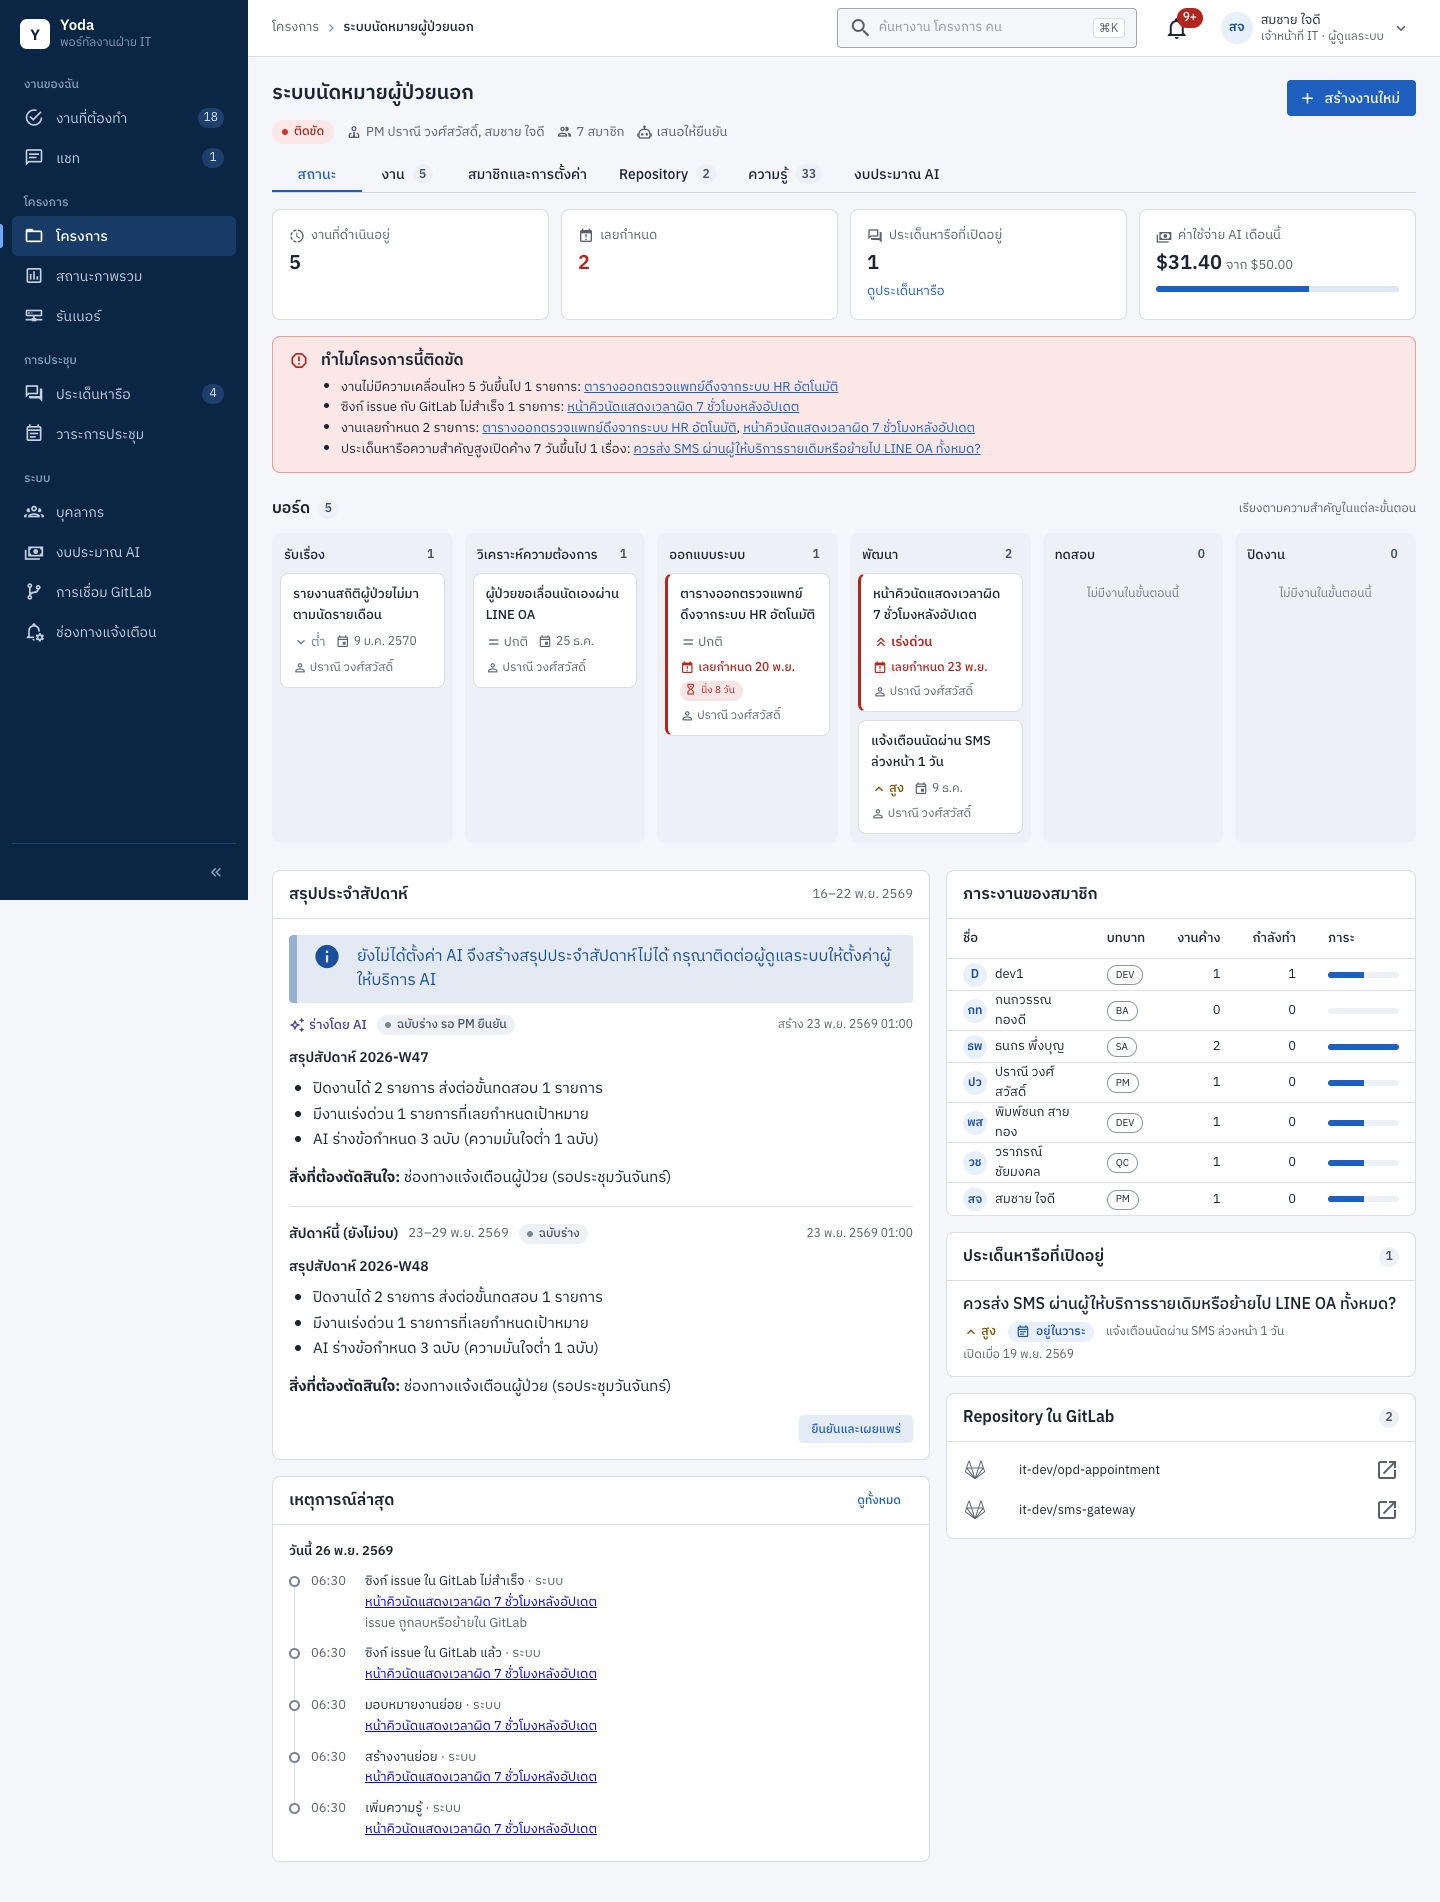
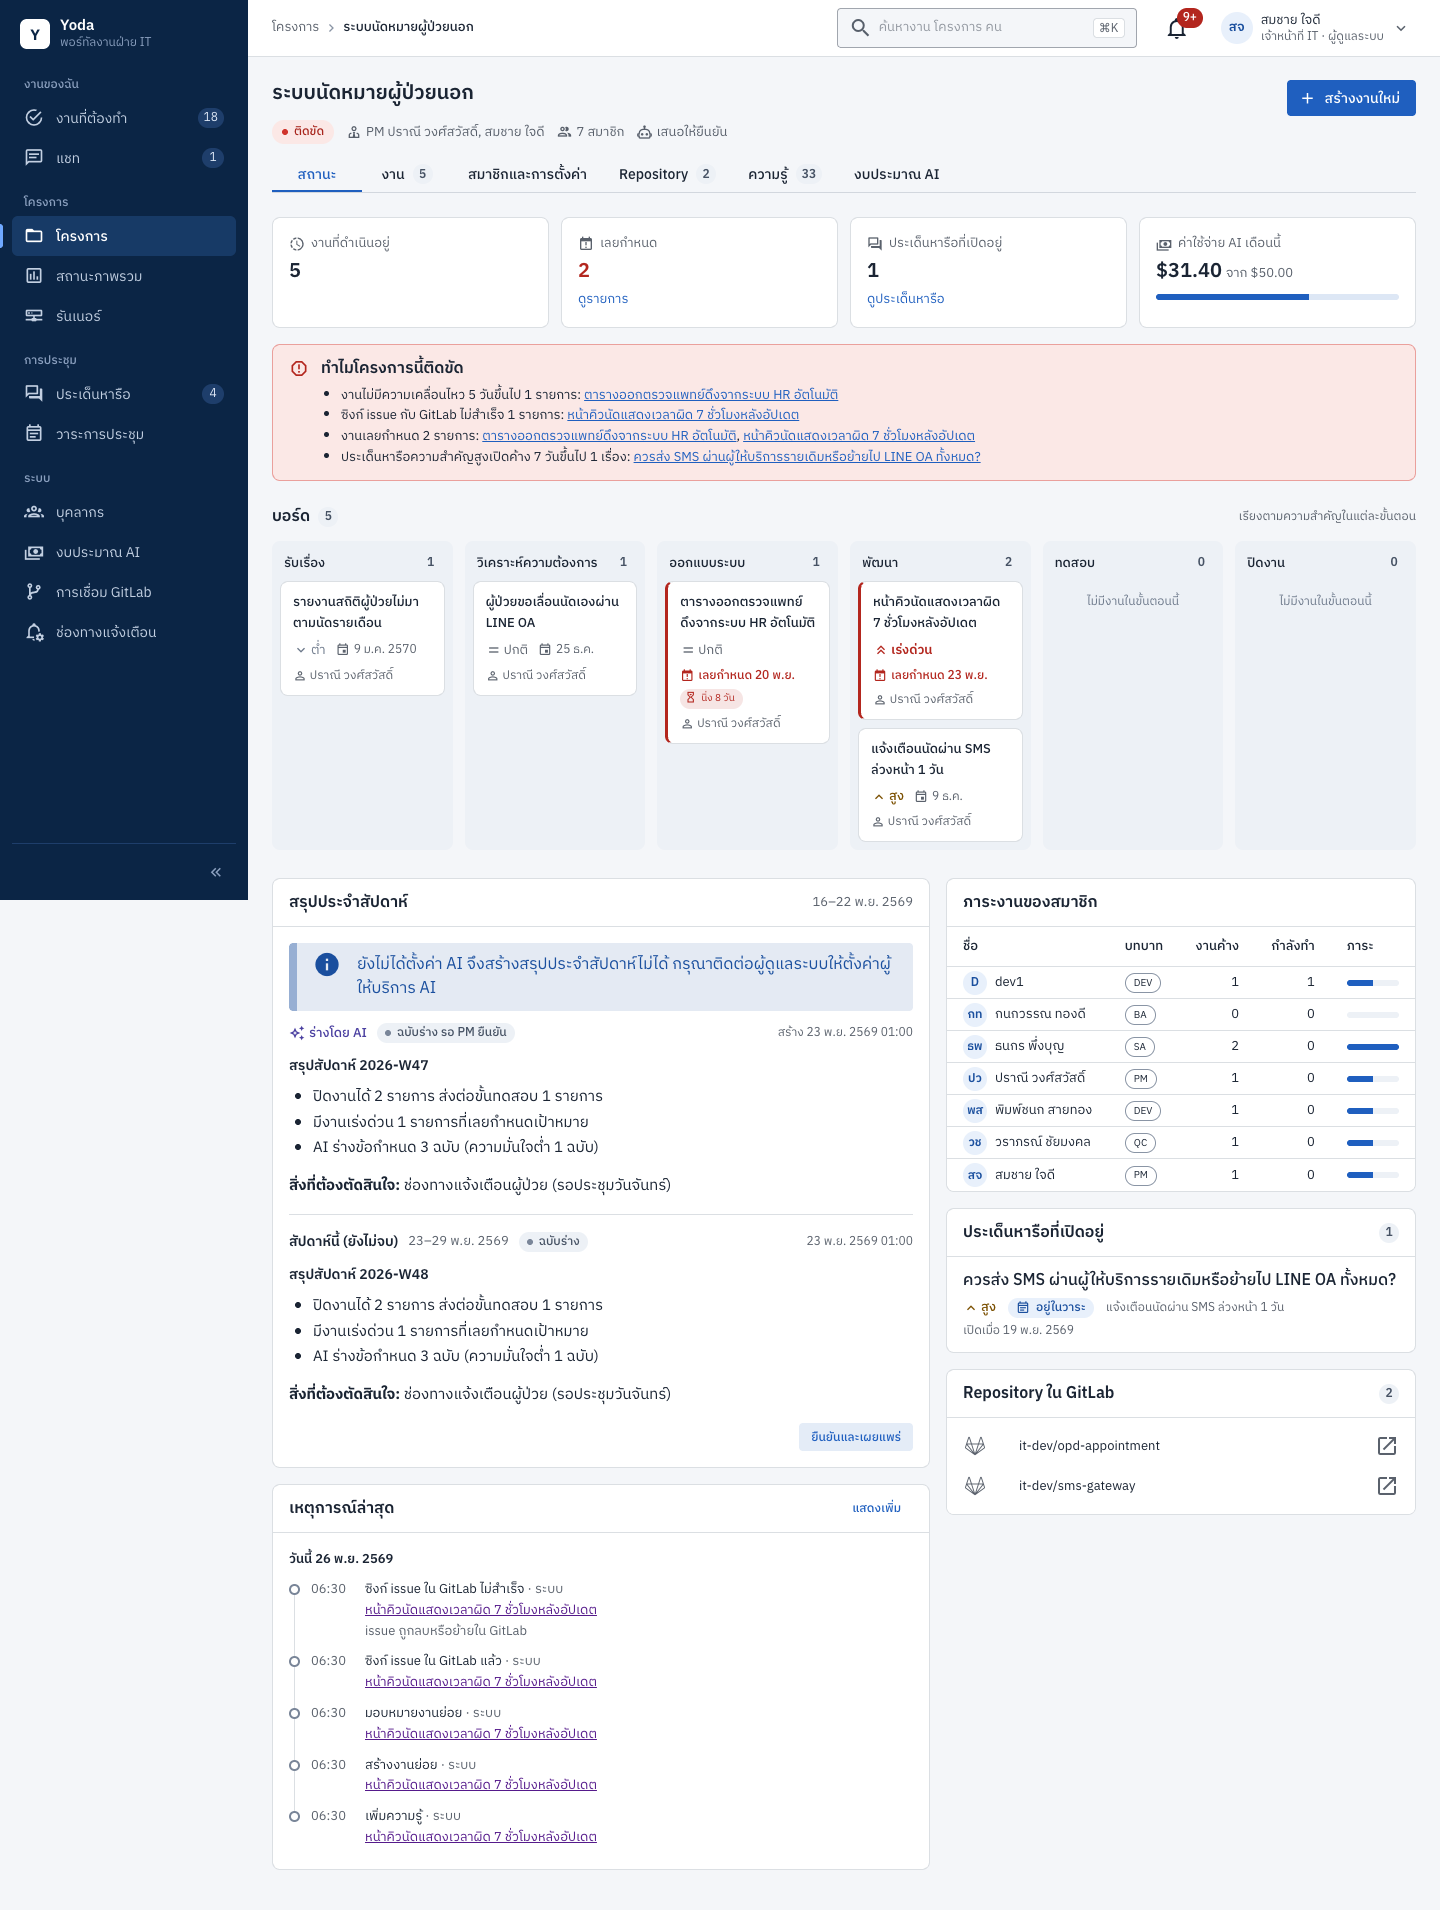
fix: knowledge count only when paged, recent events wording
GET /knowledge runs the count query only when limit or offset is given;
the project status tab's recent events button reads "แสดงเพิ่ม" (it
expands to the events the status route returns). Retook the project
status screenshot.

diff --git a/apps/core/test/knowledge.test.ts b/apps/core/test/knowledge.test.ts
@@ -307,7 +307,7 @@ describe('knowledge API', () => {
     expect(deptEvents.filter((e) => e.type.startsWith('knowledge.')).map((e) => e.projectId)).toEqual([p])
   })
 
-  it('pages the list with limit and offset and reports the total in x-total-count', async () => {
+  it('pages the list with limit and offset and reports the total of a page in x-total-count', async () => {
     await setup()
     const p = await newProject()
     const ids: string[] = []
@@ -326,10 +326,11 @@ describe('knowledge API', () => {
     expect(past.json()).toEqual([])
     expect(past.headers['x-total-count']).toBe('5')
 
-    // Without paging: everything (up to the default cap), total over all types.
+    // Without paging: everything (up to the default cap) and no count.
     const all = await call(dev, 'GET', `/knowledge?projectId=${p}`)
     expect((all.json() as KnowledgeEntry[]).length).toBe(6)
-    expect(all.headers['x-total-count']).toBe('6')
+    expect(all.headers['x-total-count']).toBeUndefined()
+    expect((await call(dev, 'GET', `/knowledge?projectId=${p}&offset=0`)).headers['x-total-count']).toBe('6')
 
     // Bounds.
     for (const q of ['limit=0', 'limit=201', 'offset=-1', 'limit=x']) {

diff --git a/apps/core/src/routes/knowledge.ts b/apps/core/src/routes/knowledge.ts
@@ -48,11 +48,15 @@ export function knowledgeRoutes(app: FastifyInstance): void {
     return e
   }
 
-  /** Newest first; `limit` (1-200, default 200) / `offset` page it, `x-total-count` gives the matching total. */
+  /**
+   * Newest first. With `limit` (1-200, default 200) or `offset` the list is a page and `x-total-count` gives the
+   * matching total; without them there is no count query.
+   */
   app.get('/knowledge', async (request, reply) => {
     requireStaff(request)
     const q = ListQuery.parse(request.query)
     await checkScope(request, q)
+    if (q.limit === undefined && q.offset === undefined) return listEntries(db(), request.me, q)
     const [entries, total] = await Promise.all([listEntries(db(), request.me, q), countEntries(db(), request.me, q)])
     reply.header('x-total-count', String(total))
     return entries

diff --git a/apps/portal/app/components/status/ProjectTab.vue b/apps/portal/app/components/status/ProjectTab.vue
@@ -76,7 +76,7 @@ defineExpose({ onLive })
                 size="small"
                 data-testid="events-show-all"
                 @click="allEvents = !allEvents"
-              >{{ allEvents ? t('status.showLess') : t('status.showAll') }}</v-btn>
+              >{{ allEvents ? t('status.showLess') : t('status.showMoreEvents') }}</v-btn>
             </div>
             <div class="card-body pt-2">
               <p v-if="!status.recentEvents.length" class="text-medium-emphasis mb-0">{{ t('status.eventsEmpty') }}</p>
